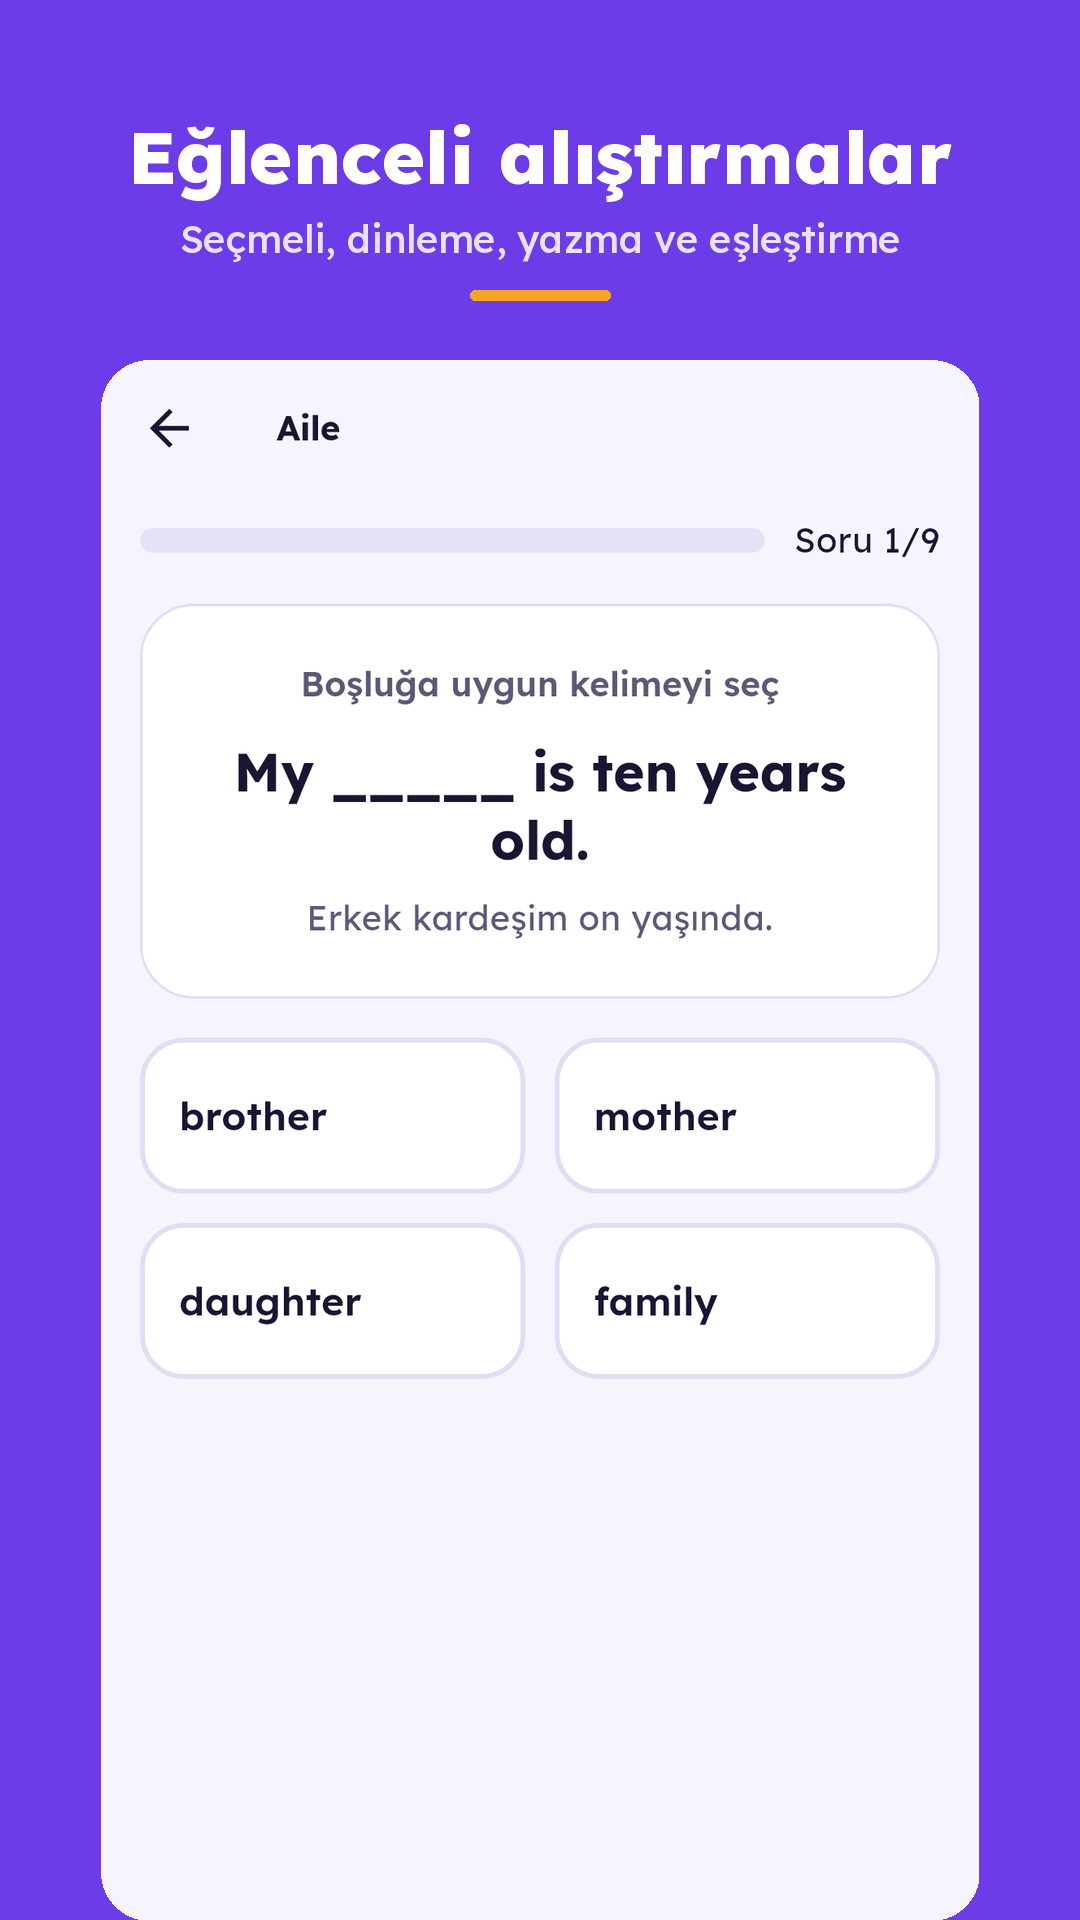
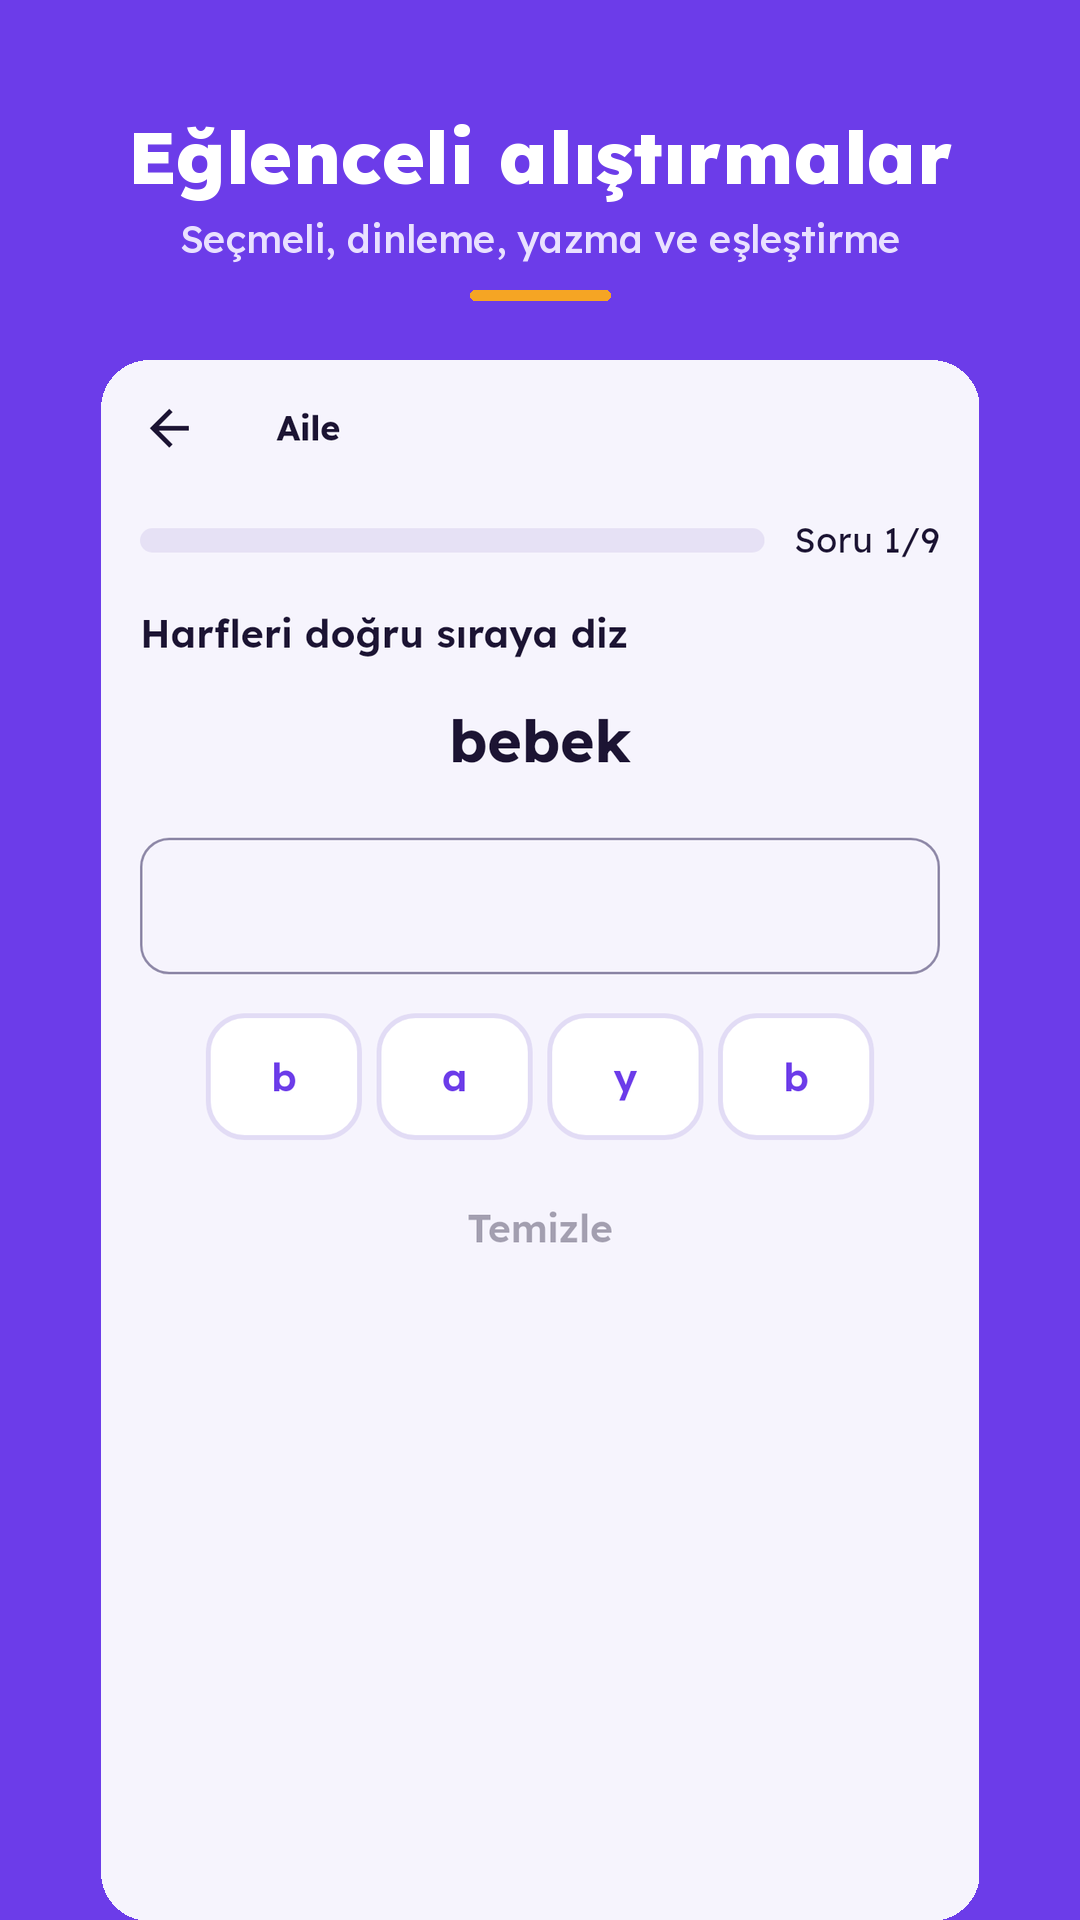
REL-4: App Store hazırlığı — iPhone ekran görüntüleri, yalnız iPhone, metin düzeltmeleri
- 6,9" iPhone ekran görüntüleri (1290x2796): docs/store/screenshots_ios
- Harita görselinde yanlış seviye aralığı düzeltildi (A1-C2 -> A1-B2)
- Uygulama yalnız iPhone (TARGETED_DEVICE_FAMILY = 1); iPad görüntüsü gerekmez
- app_store_tr.md: tam açıklama, inceleme notları, marka içermeyen anahtar kelimeler

Claude-Session: https://claude.ai/code/session_01QtoFg3bLJA3mpZ12oiijDE

diff --git a/test/store/store_screenshots_test.dart b/test/store/store_screenshots_test.dart
@@ -12,11 +12,14 @@ import '../helpers.dart';
 ///     flutter test --update-goldens --dart-define=STORE_SHOTS=true test/store
 ///     python3 tool/gen_store_images.py
 ///
-/// Ham görüntüler 1080×1920 (360×640, 3x) olarak `test/store/raw/` altına
-/// yazılır; çerçeveli ve açıklamalı mağaza görselleri `docs/store/` altına
-/// üretilir.
+/// Ham görüntüler Google Play için 1080×1920 (360×640, 3x) olarak
+/// `test/store/raw/` altına yazılır. App Store (6,9" iPhone) için
+/// `--dart-define=STORE_DEVICE=ios` eklenirse 1290×2796 (430×932, 3x) olarak
+/// `test/store/raw/ios/` altına yazılır. Çerçeveli ve açıklamalı mağaza
+/// görselleri `docs/store/` altına üretilir.
 void main() {
   const enabled = bool.fromEnvironment('STORE_SHOTS');
+  const ios = String.fromEnvironment('STORE_DEVICE') == 'ios';
 
   setUpAll(() async {
     if (enabled) await loadAppFonts();
@@ -26,7 +29,9 @@ void main() {
     WidgetTester tester, {
     Brightness brightness = Brightness.light,
   }) async {
-    tester.view.physicalSize = const Size(1080, 1920);
+    tester.view.physicalSize = ios
+        ? const Size(1290, 2796)
+        : const Size(1080, 1920);
     tester.view.devicePixelRatio = 3;
     tester.platformDispatcher.platformBrightnessTestValue = brightness;
     addTearDown(tester.view.reset);
@@ -59,8 +64,10 @@ void main() {
     await tester.pumpAndSettle();
   }
 
-  Future<void> shot(WidgetTester tester, String name) =>
-      expectLater(find.byType(MaterialApp), matchesGoldenFile('raw/$name.png'));
+  Future<void> shot(WidgetTester tester, String name) => expectLater(
+    find.byType(MaterialApp),
+    matchesGoldenFile(ios ? 'raw/ios/$name.png' : 'raw/$name.png'),
+  );
 
   testWidgets('1 ana sayfa', skip: !enabled, (tester) async {
     await open(tester);

diff --git a/tool/gen_store_images.py b/tool/gen_store_images.py
@@ -1,8 +1,10 @@
 """Mağaza görsellerini üretir (REL-4).
 
 Girdi:  test/store/raw/*.png  (store_screenshots_test.dart çıktısı, 1080x1920)
+        test/store/raw/ios/*.png  (STORE_DEVICE=ios ile, 1290x2796)
         assets/branding/logo.png, assets/fonts/Lexend-*.ttf
 Çıktı:  docs/store/screenshots/*.png  1080x1920, üstte açıklama, mor zemin
+        docs/store/screenshots_ios/*.png  1290x2796 (App Store 6,9" iPhone)
         docs/store/feature_graphic.png  1024x500 (Google Play öne çıkan görsel)
         docs/store/icon_512.png  512x512 RGBA (Google Play uygulama simgesi)
 
@@ -22,7 +24,7 @@ WHITE = (255, 255, 255)
 
 CAPTIONS = {
     '1_home': ('Her gün birkaç dakika', 'Günlük hedef, seri ve hatırlatmalarla düzenli çalış'),
-    '2_map': ("A1'den C2'ye", 'Seviye seviye, ünite ünite ilerle'),
+    '2_map': ("A1'den B2'ye", '1.280 kelime, seviye seviye, ünite ünite'),
     '3_practice': ('Eğlenceli alıştırmalar', 'Seçmeli, dinleme, yazma ve eşleştirme'),
     '4_stats': ('İlerlemeni gör', 'Öğrendiğin kelimeler, doğruluk ve tekrar planı'),
     '5_profile': ('Rozetler kazan', 'Hedefini, temanı ve sesini kendin seç'),
@@ -47,18 +49,25 @@ def centered(draw, y, text, fnt, fill, width):
     draw.text(((width - w) / 2, y), text, font=fnt, fill=fill)
 
 
-def screenshot(name, title, subtitle):
-    raw = Image.open(RAW / f'{name}.png').convert('RGB')
-    canvas = Image.new('RGB', (1080, 1920), PURPLE)
+def screenshot(name, title, subtitle, raw_dir=RAW, out_dir=OUT / 'screenshots', size=(1080, 1920)):
+    raw = Image.open(raw_dir / f'{name}.png').convert('RGB')
+    w, h = size
+    s = w / 1080
+    canvas = Image.new('RGB', size, PURPLE)
     draw = ImageDraw.Draw(canvas)
-    centered(draw, 110, title, font('ExtraBold', 74), WHITE, 1080)
-    centered(draw, 215, subtitle, font('Medium', 38), (233, 225, 255), 1080)
-    draw.rounded_rectangle((470, 290, 610, 300), 5, fill=AMBER)
-    height = 1920 - 360
+    centered(draw, round(110 * s), title, font('ExtraBold', round(74 * s)), WHITE, w)
+    centered(draw, round(215 * s), subtitle, font('Medium', round(38 * s)), (233, 225, 255), w)
+    draw.rounded_rectangle((w / 2 - 70 * s, 290 * s, w / 2 + 70 * s, 300 * s), 5 * s, fill=AMBER)
+    top = round(360 * s)
+    height = h - top
     width = round(raw.width * height / raw.height)
-    phone = rounded(raw.resize((width, height), Image.LANCZOS), 48)
-    canvas.paste(phone, ((1080 - width) // 2, 360), phone)
-    canvas.save(OUT / 'screenshots' / f'{name}.png', optimize=True)
+    if width > w - round(80 * s):
+        width = w - round(80 * s)
+        height = round(raw.height * width / raw.width)
+    phone = rounded(raw.resize((width, height), Image.LANCZOS), round(48 * s))
+    canvas.paste(phone, ((w - width) // 2, top), phone)
+    out_dir.mkdir(parents=True, exist_ok=True)
+    canvas.save(out_dir / f'{name}.png', optimize=True)
 
 
 def feature_graphic():
@@ -89,6 +98,11 @@ def main():
             print('docs/store/screenshots/%s.png' % name)
         else:
             print('eksik ham görüntü: %s (önce store_screenshots_test)' % name)
+    ios_raw = RAW / 'ios'
+    for name, (title, subtitle) in CAPTIONS.items():
+        if (ios_raw / f'{name}.png').exists():
+            screenshot(name, title, subtitle, ios_raw, OUT / 'screenshots_ios', (1290, 2796))
+            print('docs/store/screenshots_ios/%s.png' % name)
     feature_graphic()
     icon()
     print('docs/store/feature_graphic.png, docs/store/icon_512.png')

diff --git a/docs/store/app_store_tr.md b/docs/store/app_store_tr.md
@@ -1,7 +1,15 @@
 # App Store kaydı (Türkçe)
 
 App Store Connect → Uygulamalar → Learn English at Home → App Store sekmesi.
-Paket kimliği (Bundle ID): `com.engineer4235.englishWordLearning`
+Adım adım yükleme rehberi: `docs/store/APP_STORE_REHBERI.md`.
+Karakter sınırları parantez içindedir.
+
+- Paket kimliği (Bundle ID): `com.engineer4235.englishWordLearning`
+- SKU: `learn-english-at-home`
+- Birincil dil: Türkçe
+- Cihaz: yalnız iPhone (iPad'de iPhone görünümüyle çalışır)
+- En düşük iOS sürümü: 15.0
+- Fiyat: Ücretsiz; uygulama içi satın alma ve reklam yok
 
 ## Ad (30)
 
@@ -15,28 +23,78 @@ Seviye seviye kelime öğren
 
 İngilizce kelimeleri A1'den B2'ye adım adım öğren. Aralıklı tekrar, eğlenceli alıştırmalar ve günlük hedeflerle; internetsiz ve reklamsız.
 
-## Anahtar kelimeler (100, virgülle)
+## Anahtar kelimeler (100, virgülle, boşluksuz)
 
-ingilizce,kelime,öğren,sözlük,a1,b1,c1,dil,yds,ielts,toefl,kelime kartı,tekrar,çevrimdışı
+ingilizce,kelime,öğren,sözlük,a1,a2,b1,b2,dil,kelime kartı,tekrar,çevrimdışı,telaffuz,ezber,test
+
+Not: Başka markaların adları (IELTS, TOEFL vb.) Apple kuralları gereği anahtar kelimelere yazılmaz.
 
 ## Açıklama (4000)
 
-Google Play tam açıklamasıyla aynı metin kullanılabilir (`google_play_tr.md`).
+Learn English at Home, İngilizce kelime dağarcığını sıfırdan ileri seviyeye kadar adım adım geliştirmen için hazırlandı. Her gün birkaç dakika ayır, gerisini uygulama planlasın.
 
-## Destek ve gizlilik adresleri
+SEVİYE SEVİYE İLERLE
+• A1'den B2'ye 1.280 kelime, her seviyede konulara ayrılmış üniteler
+• Başlangıçta kısa bir seviye tespit sınavıyla sana uygun yerden başla
+• Her ünitenin ve seviyenin sonunda sınav; geçtikçe yeni üniteler açılır
+
+KALICI ÖĞREN
+• Aralıklı tekrar sistemi: unutmaya başladığın kelimeler doğru zamanda yeniden karşına çıkar
+• Zorlandığın kelimeler ayrıca listelenir, istediğin zaman onları çalışabilirsin
+• Her kelime için Türkçe anlam, okunuş, sesli telaffuz ve örnek cümleler
+
+EĞLENCELİ ALIŞTIRMALAR
+• Çoktan seçmeli, dinleyip seçme, yazma, boşluk doldurma
+• Eşleştirme ve harfleri sıralama oyunları
+• Doğru ve yanlış cevaplarda anında geri bildirim
+
+MOTİVASYONUNU KORU
+• Günlük hedef, seri (streak) ve seri koruması
+• XP ve rozetler
+• İstediğin saatte hatırlatma bildirimi, sessiz saatler
+
+KENDİ LİSTELERİN
+• Favoriler, kişisel kelime listeleri ve kendi eklediğin kelimeler
+• Kelimelere not ekleme, İngilizce ya da Türkçe arama
+
+İLERLEMENİ GÖR
+• Öğrendiğin kelimeler, günlük aktivite, doğruluk oranı ve tekrar planı
+• Seviye ilerlemesi ve çalışma takvimi
+
+GİZLİLİĞİNE SAYGILI
+• Hesap açman gerekmez
+• Tamamen çevrimdışı çalışır, internet bağlantısı istemez
+• Reklam ve kullanıcı takibi yoktur; verilerin yalnızca cihazında saklanır
+• Koyu tema ve büyük yazı desteği
+
+## Bu sürümdeki yenilikler
+
+İlk sürüm: A1–B2 seviyelerinde 1.280 kelime, seviye tespit sınavı, aralıklı tekrar, alıştırmalar, seri ve rozetler, kişisel listeler. Tamamen çevrimdışı ve reklamsız.
+
+## Adresler
 
 - Destek URL'si: https://engineer4235.github.io/englishwordclaude/
 - Gizlilik politikası URL'si: https://engineer4235.github.io/englishwordclaude/gizlilik.html
+- Pazarlama URL'si: boş bırakılabilir
 
-## Kategori ve yaş
+## Kategori, yaş ve telif
 
 - Birincil kategori: Eğitim; ikincil: Başvuru (Reference)
-- Yaş derecelendirme anketi: tüm sorulara "Yok" → 4+
+- Yaş derecelendirme anketi: tüm sorulara "Yok / Hayır" → 4+
+- Telif hakkı: `2026 <yayıncının adı soyadı>`
 
 ## Uygulama gizliliği (App Privacy)
 
-"Bu uygulamadan veri toplanıyor mu?" → **Hayır, veri toplamıyoruz.**
+"Siz veya üçüncü taraf ortaklarınız bu uygulamadan veri topluyor mu?" → **Hayır, bu uygulamadan veri toplamıyoruz.**
 Sonuç etiketi: "Veri Toplanmıyor" (Data Not Collected).
+
+## Uygulama incelemesi bilgileri (App Review)
+
+- Oturum açma gerekli mi: **Hayır** (hesap yok)
+- İletişim: yayıncının adı, telefonu, e-postası
+- Notlar (İngilizce, olduğu gibi yapıştırın):
+
+> The app does not require an account or an internet connection. All learning data is stored locally on the device. The interface is in Turkish (the app teaches English vocabulary to Turkish speakers). On first launch, tap "Atla" (Skip), go through the short setup with the bottom button, and choose "A1'den başla" (Start from A1) to reach the first lesson. Daily reminder notifications are optional and only requested if the user picks a reminder time. No ads, no in-app purchases, no tracking.
 
 ## İhracat uyumluluğu
 
@@ -44,4 +102,10 @@ Sonuç etiketi: "Veri Toplanmıyor" (Data Not Collected).
 
 ## Ekran görüntüleri
 
-App Store 6,7" ve 6,5" iPhone ekran görüntüleri ister (ör. 1290×2796). `docs/store/screenshots/` görselleri Play için 1080×1920'dir; App Store için `tool/gen_store_images.py` içindeki tuval ölçüsü değiştirilerek ya da bir iPhone simülatöründen alınan görüntülerle üretilmelidir.
+| Alan | Dosya | Ölçü |
+|---|---|---|
+| iPhone 6,9" ekran | `docs/store/screenshots_ios/*.png` | 1290×2796, 6 adet |
+| Uygulama simgesi | Xcode projesinde (`AppIcon`, 1024×1024, saydamlıksız) | otomatik |
+
+App Store Connect 6,9" görüntüleri küçük iPhone boyutlarına kendisi ölçekler.
+Görselleri yeniden üretmek için `docs/RELEASE.md` 5. bölüm.

diff --git a/docs/RELEASE.md b/docs/RELEASE.md
@@ -81,6 +81,8 @@ Tasarım değişince:
 
 ```sh
 flutter test --update-goldens --dart-define=STORE_SHOTS=true test/store
+flutter test --update-goldens --dart-define=STORE_SHOTS=true \
+  --dart-define=STORE_DEVICE=ios test/store
 pip install pillow && python3 tool/gen_store_images.py
 ```
 
